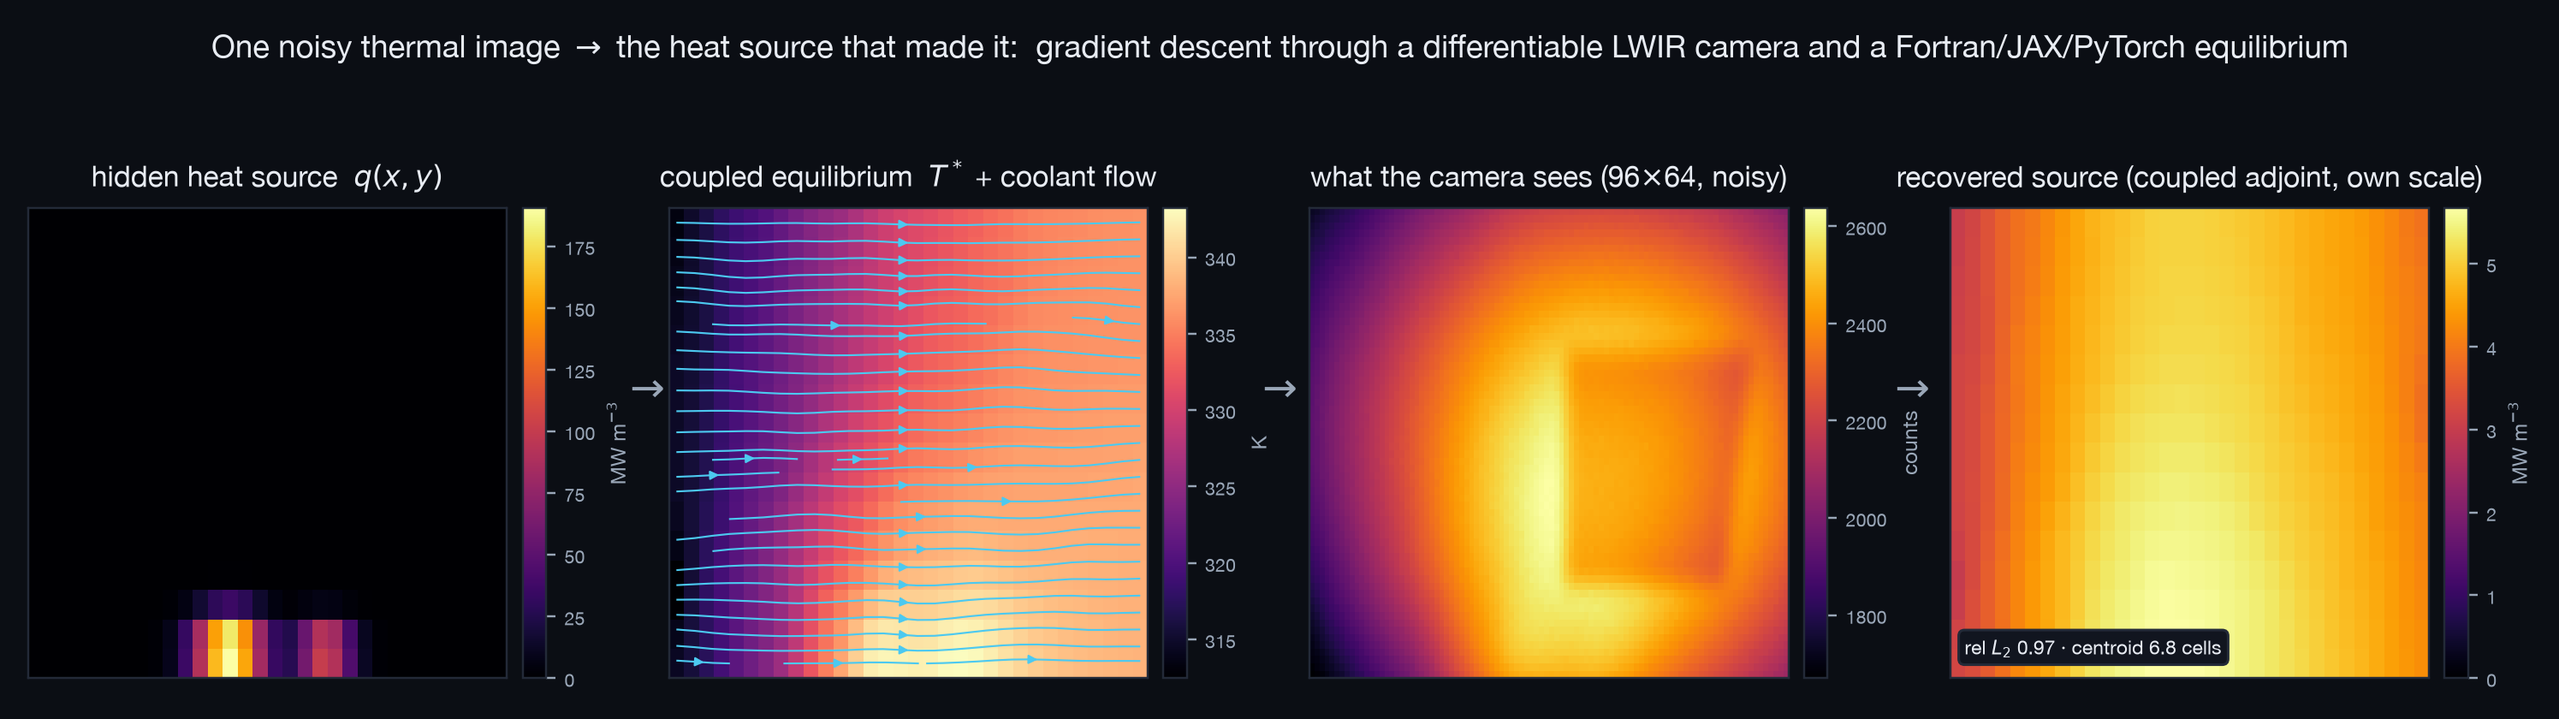
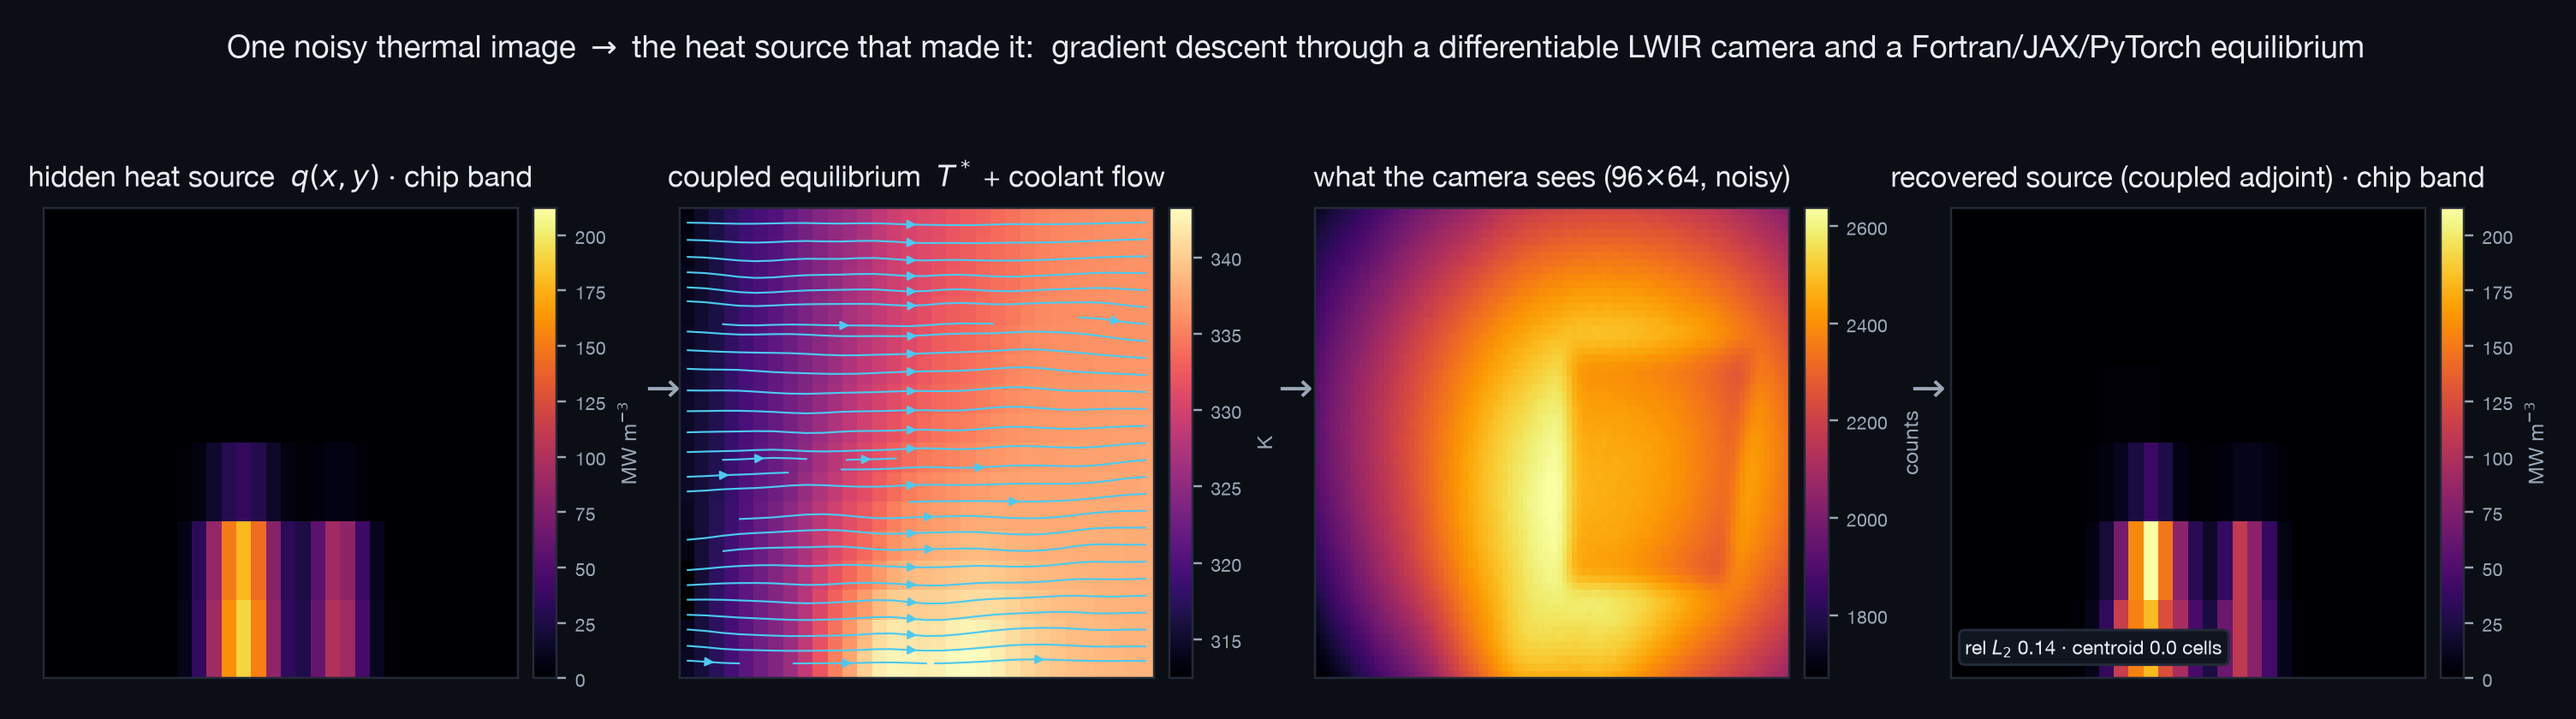
feat(figures): regenerate visuals from experiment B v2, chip-band source panels on shared scale

diff --git a/docs/index.html b/docs/index.html
@@ -76,9 +76,9 @@
   <div class="cards">
     <div class="card"><div class="big">3.6e-07</div>
       <div class="lbl">end-to-end gradient vs finite differences (pixels &rarr; q), verdict PASS</div></div>
-    <div class="card"><div class="big">1773</div>
+    <div class="card"><div class="big">2220</div>
       <div class="lbl">adjoint GMRES matvecs across 250 iterations — each one a VJP chain over three containers</div></div>
-    <div class="card"><div class="big">25&times;</div>
+    <div class="card"><div class="big">2&times;</div>
       <div class="lbl">final image-space loss gap: coupled adjoint vs frozen-viscosity gradient, same data</div></div>
     <div class="card"><div class="big">4</div>
       <div class="lbl">Tesseracts: Fortran Darcy flow, PyTorch viscosity closure, JAX heat transport, JAX thermal camera</div></div>
@@ -99,12 +99,12 @@
      freezes it (the standard one-way approximation).</p>
   <table>
     <tr><th>metric</th><th style="text-align:right">coupled adjoint</th><th style="text-align:right">one-way</th></tr>
-    <tr><td>relative L<sub>2</sub> error of q&#770;</td><td class='num c'>0.971</td><td class='num o'>0.981</td></tr><tr><td>peak amplitude ratio (1 = ideal)</td><td class='num c'>0.030</td><td class='num o'>0.032</td></tr><tr><td>centroid shift [cells]</td><td class='num c'>6.85</td><td class='num o'>6.93</td></tr><tr><td>total recovered power ratio (1 = ideal)</td><td class='num c'>1.041</td><td class='num o'>1.364</td></tr><tr><td>final data loss [counts&sup2;]</td><td class='num c'>1.9e+03</td><td class='num o'>4.74e+04</td></tr><tr><td>adjoint GMRES matvecs</td><td class='num c'>1773</td><td class='num o'>0</td></tr>
+    <tr><td>relative L<sub>2</sub> error of q&#770;</td><td class='num c'>0.137</td><td class='num o'>0.246</td></tr><tr><td>peak amplitude ratio (1 = ideal)</td><td class='num c'>1.115</td><td class='num o'>1.098</td></tr><tr><td>centroid shift [cells]</td><td class='num c'>0.02</td><td class='num o'>0.17</td></tr><tr><td>total recovered power ratio (1 = ideal)</td><td class='num c'>1.000</td><td class='num o'>1.017</td></tr><tr><td>final data loss [counts&sup2;]</td><td class='num c'>2.02</td><td class='num o'>3.34</td></tr><tr><td>adjoint GMRES matvecs</td><td class='num c'>2220</td><td class='num o'>0</td></tr>
   </table>
   <p class="note">Grid 32&times;16 plate, 96&times;64
      sensor, &sigma;<sub>noise</sub> = 2.0 counts, seeds pinned; protocol committed
-     before the run (writeup/PROTOCOL.md). Declared criterion: coupled rel_l2 < 0.5 and centroid shift < 1.5 cells —
-     met: False.</p>
+     before the run (writeup/PROTOCOL.md). Declared criterion: coupled rel_l2 < 0.5 and centroid shift < 1.5 cells (PROTOCOL.md Amendment v2, declared before this run) —
+     met: True.</p>
   <figure><img src="assets/recovery_convergence.png" alt="Convergence, coupled vs one-way"></figure>
   <img src="assets/recovery.gif" alt="Recovery animation" loading="lazy">
 

diff --git a/scripts/make_figures.py b/scripts/make_figures.py
@@ -89,9 +89,23 @@ def make_hero(fields, results, out: Path) -> None:
     fig, axes = plt.subplots(1, 4, figsize=(13.6, 3.4))
     qmax = max(q_true.max(), q_rec.max())
 
+    # The true blobs sit in the chip band at the base of the plate
+    # (two_blob_source y_frac 0.06): crop both source panels to that band so
+    # the panel shows structure, not empty domain.  The crop is labelled.
+    band = max(4, int(round(0.375 * q_true.shape[1])))
+    band_frac = band / q_true.shape[1]
+
+    def show_band(ax, f, **kw):
+        im = ax.imshow(np.asarray(f)[:, :band].T, origin="lower",
+                       cmap=figstyle.CMAP_SOURCE, aspect="auto",
+                       extent=[0, 1, 0, band_frac], interpolation="nearest",
+                       **kw)
+        ax.set_ylim(0, band_frac)
+        return im
+
     ax = axes[0]
-    im = show_field(ax, q_true, figstyle.CMAP_SOURCE, vmin=0, vmax=qmax)
-    ax.set_title("hidden heat source  $q(x,y)$", pad=8)
+    im = show_band(ax, q_true, vmin=0, vmax=qmax)
+    ax.set_title("hidden heat source  $q(x,y)$ · chip band", pad=8)
     colorbar(fig, im, ax, "MW m$^{-3}$")
 
     ax = axes[1]
@@ -119,11 +133,11 @@ def make_hero(fields, results, out: Path) -> None:
     colorbar(fig, im, ax, "counts")
 
     ax = axes[3]
-    # its own scale: the recovery is judged by shape and location, and a
-    # shared scale would hide a low-amplitude reconstruction entirely
-    im = show_field(ax, q_rec, figstyle.CMAP_SOURCE, vmin=0)
+    # shared scale with the truth panel: the v2 recovery holds amplitude
+    # (ratio ~1.1), so the honest comparison is also the strongest one
+    im = show_band(ax, q_rec, vmin=0, vmax=qmax)
     r = results["results"]["coupled"]
-    ax.set_title("recovered source (coupled adjoint, own scale)", pad=8)
+    ax.set_title("recovered source (coupled adjoint) · chip band", pad=8)
     ax.text(0.03, 0.05,
             f"rel $L_2$ {r['rel_l2']:.2f} · centroid {r['centroid_shift_cells']:.1f} cells",
             transform=ax.transAxes, fontsize=7.5, color=INK,
